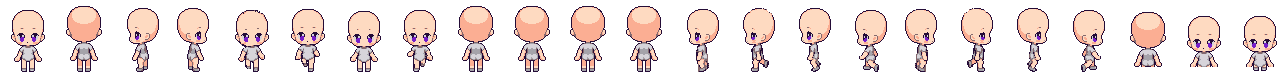
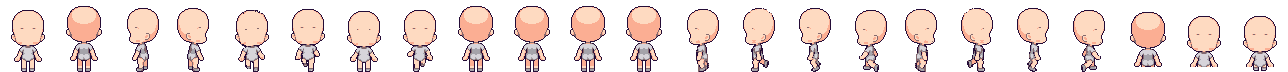
fix: separate face layer and stop the bald head outline showing through hair
Part extraction protected "eye" pixels by color, but the head outline is
the same dark purple, so hair and ribbon parts had a hole along the bald
head outline and the base outline showed through. Grey eye whites were
not protected, so PixelLab's slightly redrawn eyes leaked into the front
hair and overlapped the base eyes.

- faceFeatures: eyes and mouth are face-colored pixels inside the face
  that do not touch transparency (the outline does); parts skip them
  with a 1px margin
- body-basic is now a bare face; face-basic draws the approved N1 eyes
  (white sclera, two-tone iris) as its own layer, placed per frame like hair
- drop 1-2px head-part specks and floating pixels left in the temporary
  uniform

Story: story-009-pixel-art

Claude-Session: https://claude.ai/code/session_01HWhC6cf8F1yVMHeXCiKLYb

diff --git a/src/config/shop.ts b/src/config/shop.ts
@@ -29,10 +29,10 @@ const sheet = (name: string): LayerSource => ({ sheet: `/assets/characters/layer
 
 /** 아이템 id → 그림. 표에 없는 id는 그리지 않는다 (서버에 새 아이템이 먼저 생겨도 화면이 깨지지 않는다). */
 export const ITEM_ASSETS: Readonly<Record<string, ItemAsset>> = {
-  // 기본 몸: 머리카락 없는 몸과 얼굴, 회색 바디슈트.
+  // 기본 몸: 머리카락과 눈, 입이 없는 몸, 회색 바디슈트.
   "body-basic": { placeholder: false, layers: { body: sheet("body-basic") } },
-  // 얼굴은 지금 기본 몸에 들어 있다.
-  "face-basic": { placeholder: false, layers: {} },
+  // 기본 얼굴: 승인 시안 N1의 눈과 입 (art-src/characters/src/face/basic).
+  "face-basic": { placeholder: false, layers: { face: sheet("face-basic") } },
   "hair-lavender": { placeholder: false, layers: { hair_back: sheet("hair-lavender-back"), hair_front: sheet("hair-lavender-front") } },
   // 밤색 머리: 라벤더 머리의 색만 바꿨다 (art-src/characters/src/recolor/hair-chestnut.json).
   "hair-chestnut": { placeholder: false, layers: { hair_back: sheet("hair-chestnut-back"), hair_front: sheet("hair-chestnut-front") } },

diff --git a/art-src/characters/src/README.md b/art-src/characters/src/README.md
@@ -4,6 +4,7 @@
 
 - `base/rot/{south,north,west}.png`: 기본 몸 서기 (56×72, 머리카락 없음, 회색 바디슈트). 동쪽은 서쪽 반전.
 - `base/walk/<방향>/{0..3}.png`: 기본 몸 걷기 (PixelLab skeleton-v3, walking-4-frames, 112×112). 없는 방향은 서기 그림으로 임시 대체한다.
+- `face/<id>/rot/{south,west}.png`: "기본 몸 + 그 얼굴" 서기. 기본 몸 눈과 입 자리의 눈과 입 색만 떼어 낸다 (뒷모습은 없음). 기본 몸 시트는 눈과 입을 지운 맨 얼굴이다. `face/basic`은 승인 시안 N1(`outfit/uniform/rot`와 같은 그림)이다.
 - `hair/<id>/rot/<방향>.png`: "기본 몸 + 그 머리카락"만 생성한 서기. 머리카락은 방향당 1장으로 모든 프레임에 붙인다.
 - `outfit/<id>/rot/<방향>.png`, `outfit/<id>/walk/<방향>/{0..3}.png`: "기본 몸 + 그 옷"의 서기와 같은 뼈대의 걷기.
 - `recolor/<시트 이름>.json`: 이미 만든 시트(`from`)의 한 색 띠(`hue`)만 명도 순서대로 새 색 띠(`ramp`)로 바꾼 변형. 생성 없이 같은 모양의 다른 색 아이템을 만든다 (예: 밤색 머리 = 라벤더 머리 색 바꾸기).
